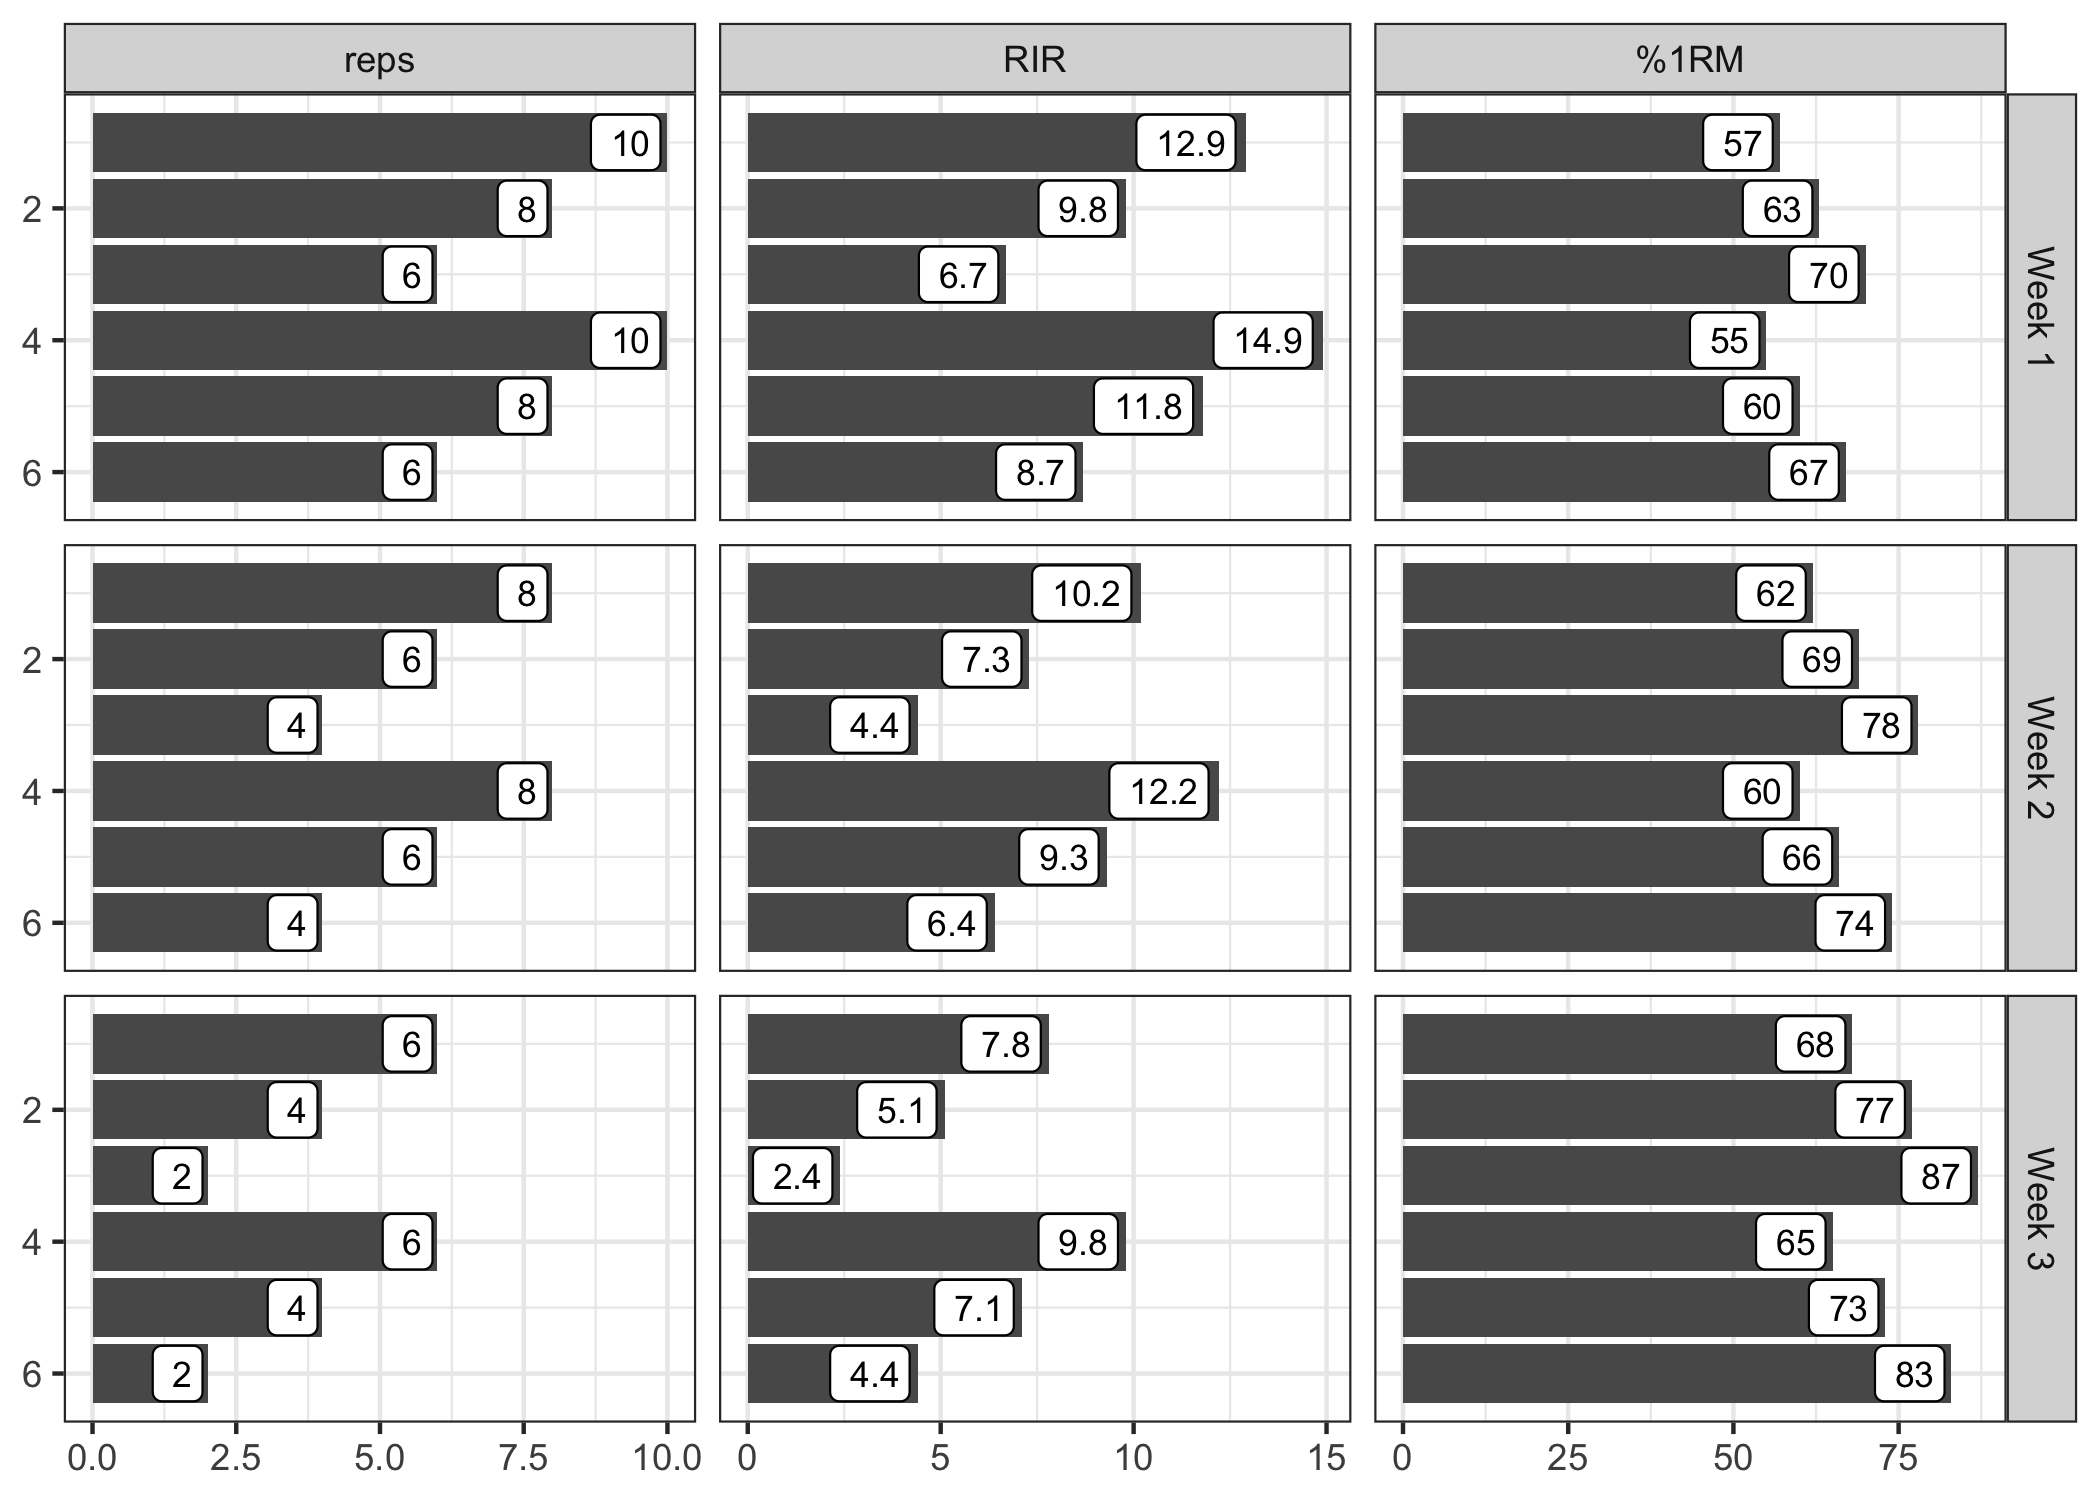
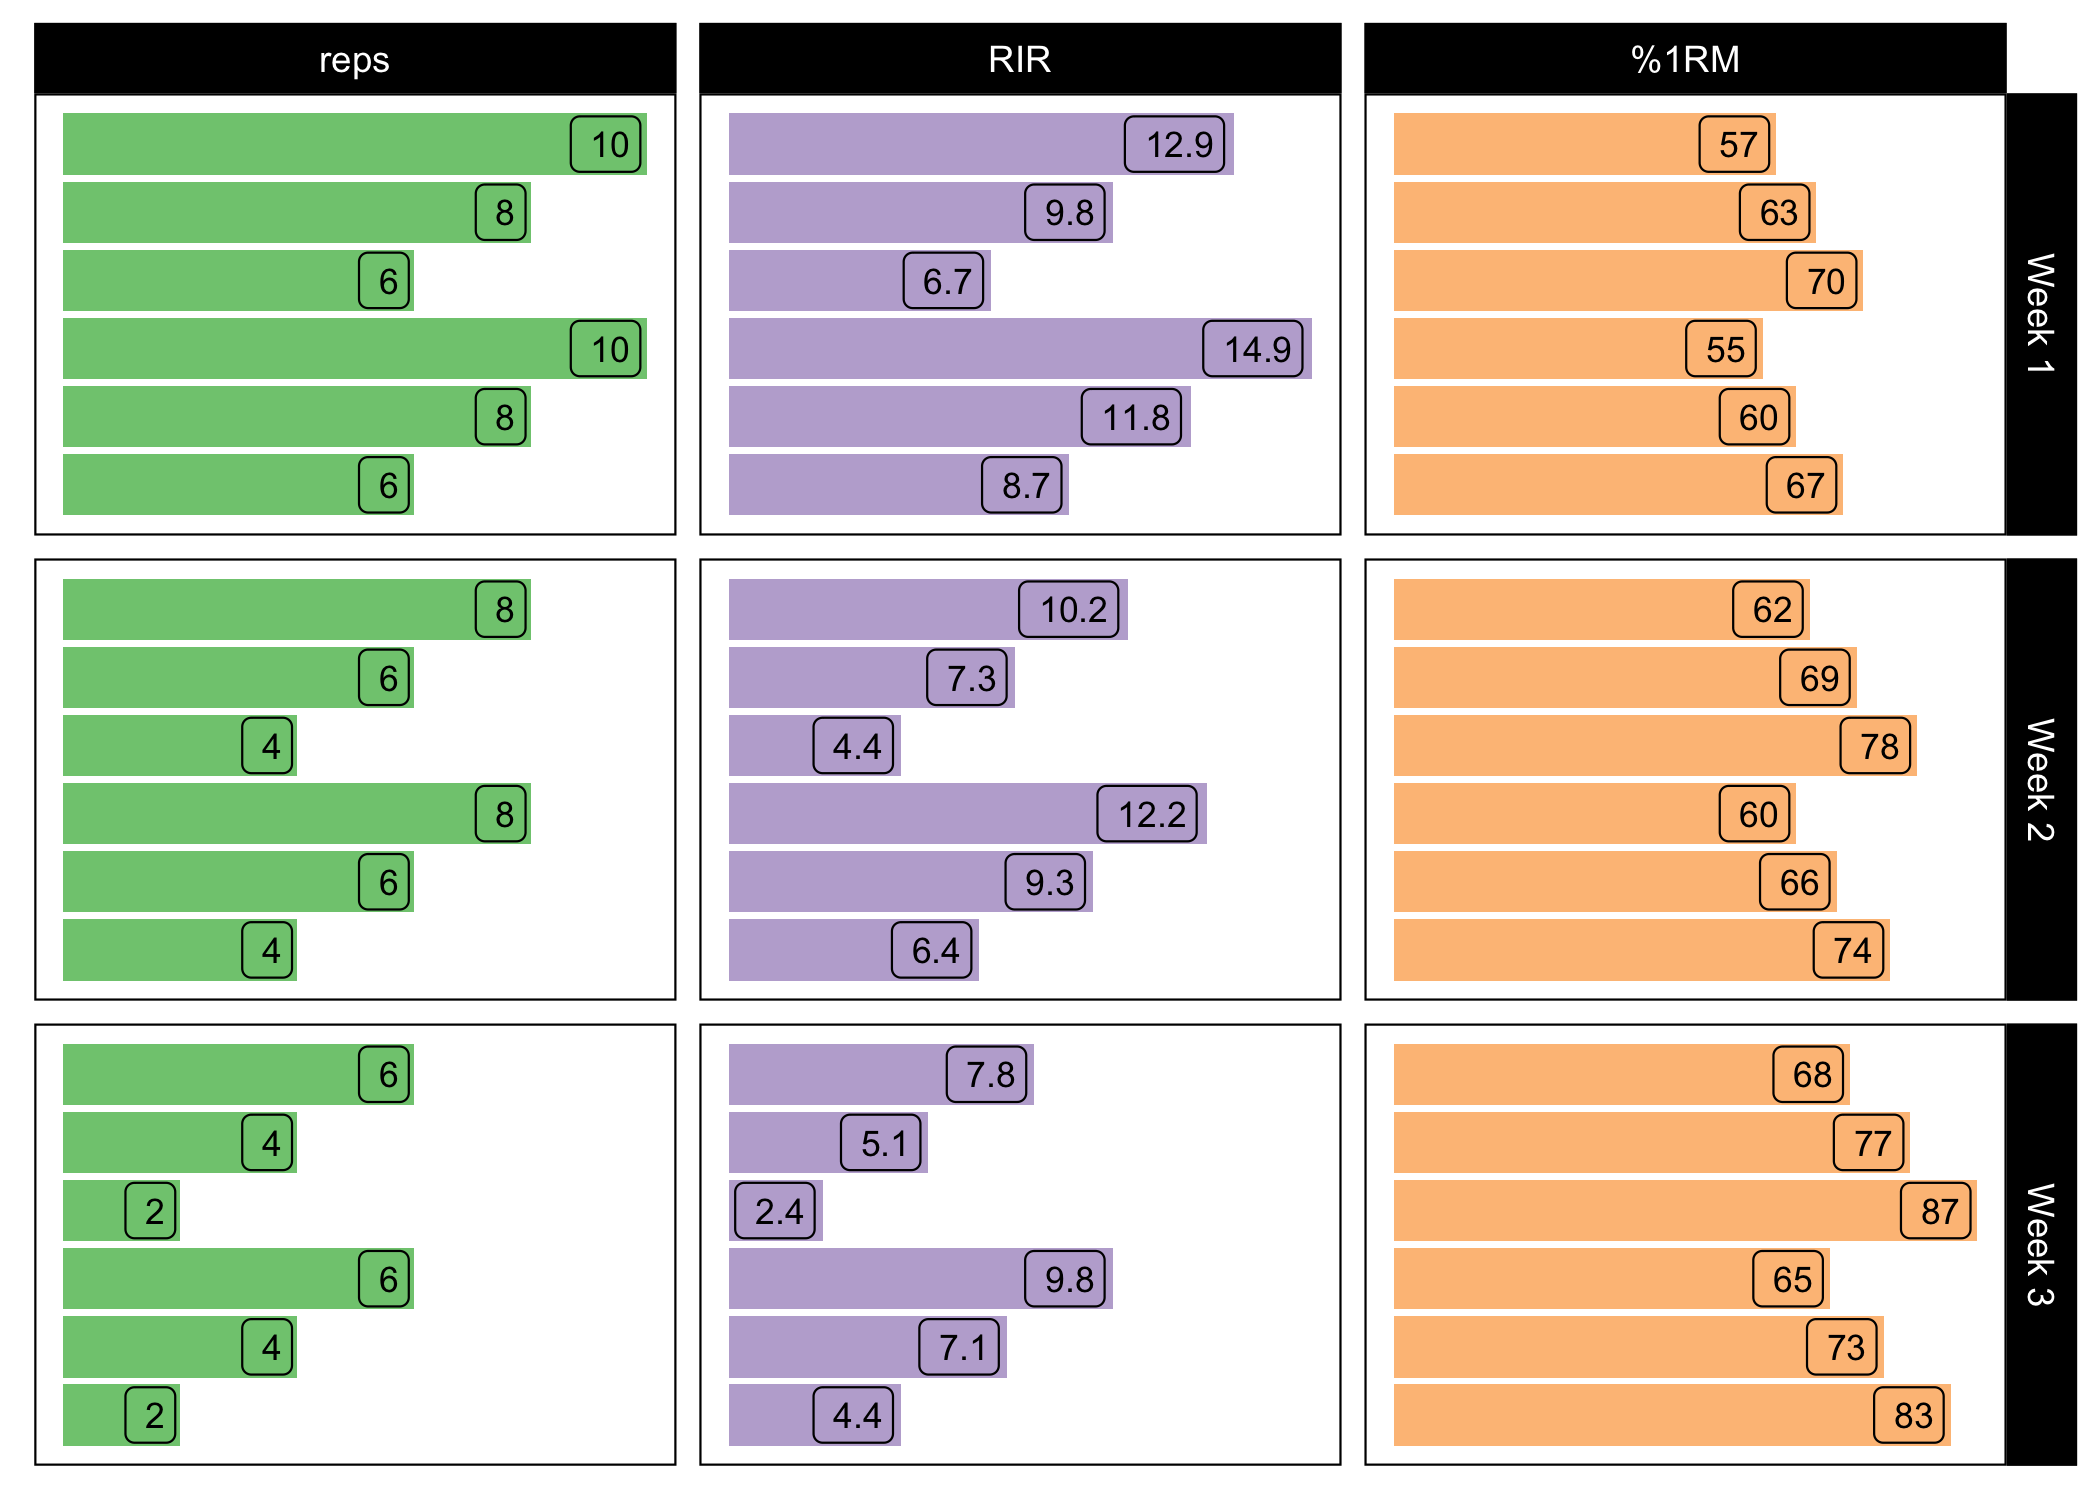
updated graph

diff --git a/README.md b/README.md
@@ -64,12 +64,20 @@ scheme <- scheme %>%
   mutate(param = factor(param, levels = c("reps", "RIR", "%1RM")))
 
 # Plot
-ggplot(scheme, aes(x = value, y = set)) +
-  theme_bw() +
+ggplot(scheme, aes(x = value, y = set, fill = param)) +
+  theme_linedraw() +
   geom_barh(stat =  "identity") +
   geom_label(aes(label = value), hjust = 1.1, size = 3) +
   facet_grid(index~param, scales = "free_x") +
   scale_y_reverse() +
+  theme(
+    legend.position = "none",
+    axis.title = element_blank(),
+    axis.text = element_blank(),
+    axis.ticks = element_blank(),
+    panel.grid.major = element_blank(),
+    panel.grid.minor = element_blank()) +
+  scale_fill_brewer(palette = "Accent") +
   xlab(NULL) +
   ylab(NULL)
 ```
